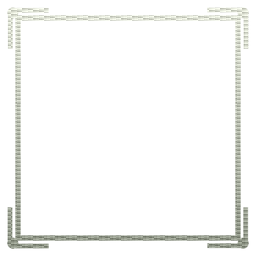
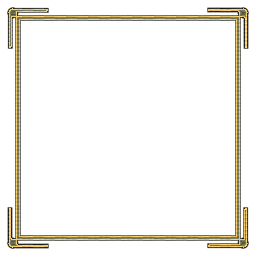
feat: 🎖 menu bezel redrawn as a brass rail on ink-outlined steel, domed plates, no stray header rule

Changed region(s): [[0.0, 0.0, 1.0, 1.0]]

diff --git a/tools/gen_ui_chrome.py b/tools/gen_ui_chrome.py
@@ -500,7 +500,35 @@ def frame_lrg(w, h):
         ox = cx - (lw * 1.0) * sx
         d.line([(cx, oy), (cx + arm * sx, oy)], fill=255, width=aw)
         d.line([(ox, cy), (ox, cy + arm * sy)], fill=255, width=aw)
-    return _weather(_down(m, w, h, blur=0.25), seed=17)
+    return _bezel_paint(_down(m, w, h, blur=0.25), seed=17)
+
+
+def _bezel_paint(im: Image.Image, seed: int) -> Image.Image:
+    """Designed bezel colour: crisp ink outline, a bright brass rail either side of a
+    dark olive steel core. Colour keys off the pixel's depth inside the stroke (erosion
+    passes), so the keyline, rivets and corner arms all get the same machined channel.
+    Alpha keeps a light grain (the weathering ratchets want it) but colour stays clean."""
+    w, h = im.size
+    a = im.getchannel("A")
+    solid = a.point(lambda v: 255 if v > 110 else 0)
+    depth = [solid]
+    for _ in range(4):
+        depth.append(depth[-1].filter(ImageFilter.MinFilter(3)))
+    dp = [d.load() for d in depth]
+    px = im.load()
+    ink, brass, core, core2 = (22, 20, 12), (236, 196, 96), (112, 112, 78), (86, 88, 60)
+    for y in range(h):
+        for x in range(w):
+            r, g, b, al = px[x, y]
+            if al == 0:
+                continue
+            lvl = sum(1 for i in range(1, 5) if dp[i][x, y] > 0)  # 0 = edge .. 4 = deep
+            n = (((x * 73856093) ^ (y * 19349663) ^ (seed * 83492791)) & 0xFFFF) / 65535.0
+            c = ink if lvl == 0 else brass if lvl == 1 else (core if lvl == 2 else core2)
+            k = 0.92 + 0.16 * n
+            px[x, y] = (min(255, int(c[0] * k)), min(255, int(c[1] * k)),
+                        min(255, int(c[2] * k)), int(al * (1.0 - 0.14 * n)))
+    return im
 
 
 def frame_underlay(w, h):
@@ -514,7 +542,7 @@ def frame_underlay(w, h):
                    (S * 0.05, S * 0.5), (S * 0.95, S * 0.5)):
         d.rectangle([cx - g, cy - g, cx + g, cy + g], fill=0)
     return _weather(_down(m, w, h, blur=0.25), seed=53,
-                    hi=(238, 240, 232), lo=(150, 156, 140), amp=0.20)
+                    hi=(120, 112, 70), lo=(70, 66, 40), amp=0.20)
 
 
 def reticle_bracket(w, h):

diff --git a/ASSETS.md b/ASSETS.md
@@ -13,7 +13,7 @@ and `docs/steam-store/owner-review.md` before release or redistribution.
 
 | Path | Files | Source | License |
 |---|---|---|---|
-| `assets/art/ui/` `hud/` `icons/` | 108 | Procedurally generated — `tools/gen_ui_chrome.py`, `gen_ui_icons.py` (incl. `ui/menuicons/medal_flawless` + `medal_swift` + `medal_hoarder`, the service-record sector medals; `icons/icon_flame` + `icons/icon_rocket`, the special-weapon chip and capsule art), `gen_ui_glyphs.py`, `gen_fx_cards.py` | Project-owned (MIT alongside the code) |
+| `assets/art/ui/` `hud/` `icons/` | 108 | Procedurally generated — `tools/gen_ui_chrome.py`, `gen_ui_icons.py` (incl. `ui/menuicons/medal_flawless` + `medal_swift` + `medal_hoarder`, the service-record sector medals; `icons/icon_flame` + `icons/icon_rocket`, the special-weapon chip and capsule art), `gen_ui_glyphs.py`, `gen_fx_cards.py` | Project-owned (MIT alongside the code); menu bezel `hud/SPR_HUD_Frame_Lrg` + `_Underlay` re-coloured (brass rail on ink-outlined olive steel, same keyline geometry) by `gen_ui_chrome.py` for the shared menu chrome |
 | `assets/fontawesome/solid/` | 24 SVGs | Official Font Awesome Free 6.7.2, Fonticons, Inc. Sources and hashes in `assets/fontawesome/manifest.json`. Runtime fill changed to white. | Icons CC BY 4.0, retained `assets/fontawesome/LICENSE.txt`; attribution to [Font Awesome](https://fontawesome.com/) |
 | `assets/art/ui/title_logo.png` | 1 | Generative AI, **service/model/date unrecorded** | Project-owned **unverified** |
 | `assets/art/fx/` | 23 | Procedurally generated — `tools/gen_fx_cards.py` (incl. `fx_fireball` + `fx_billow`, the lumpy volumetric blast and smoke cards drawn by `src/view/explosions_polish.gd`; regenerate with `--only`) | Project-owned |
